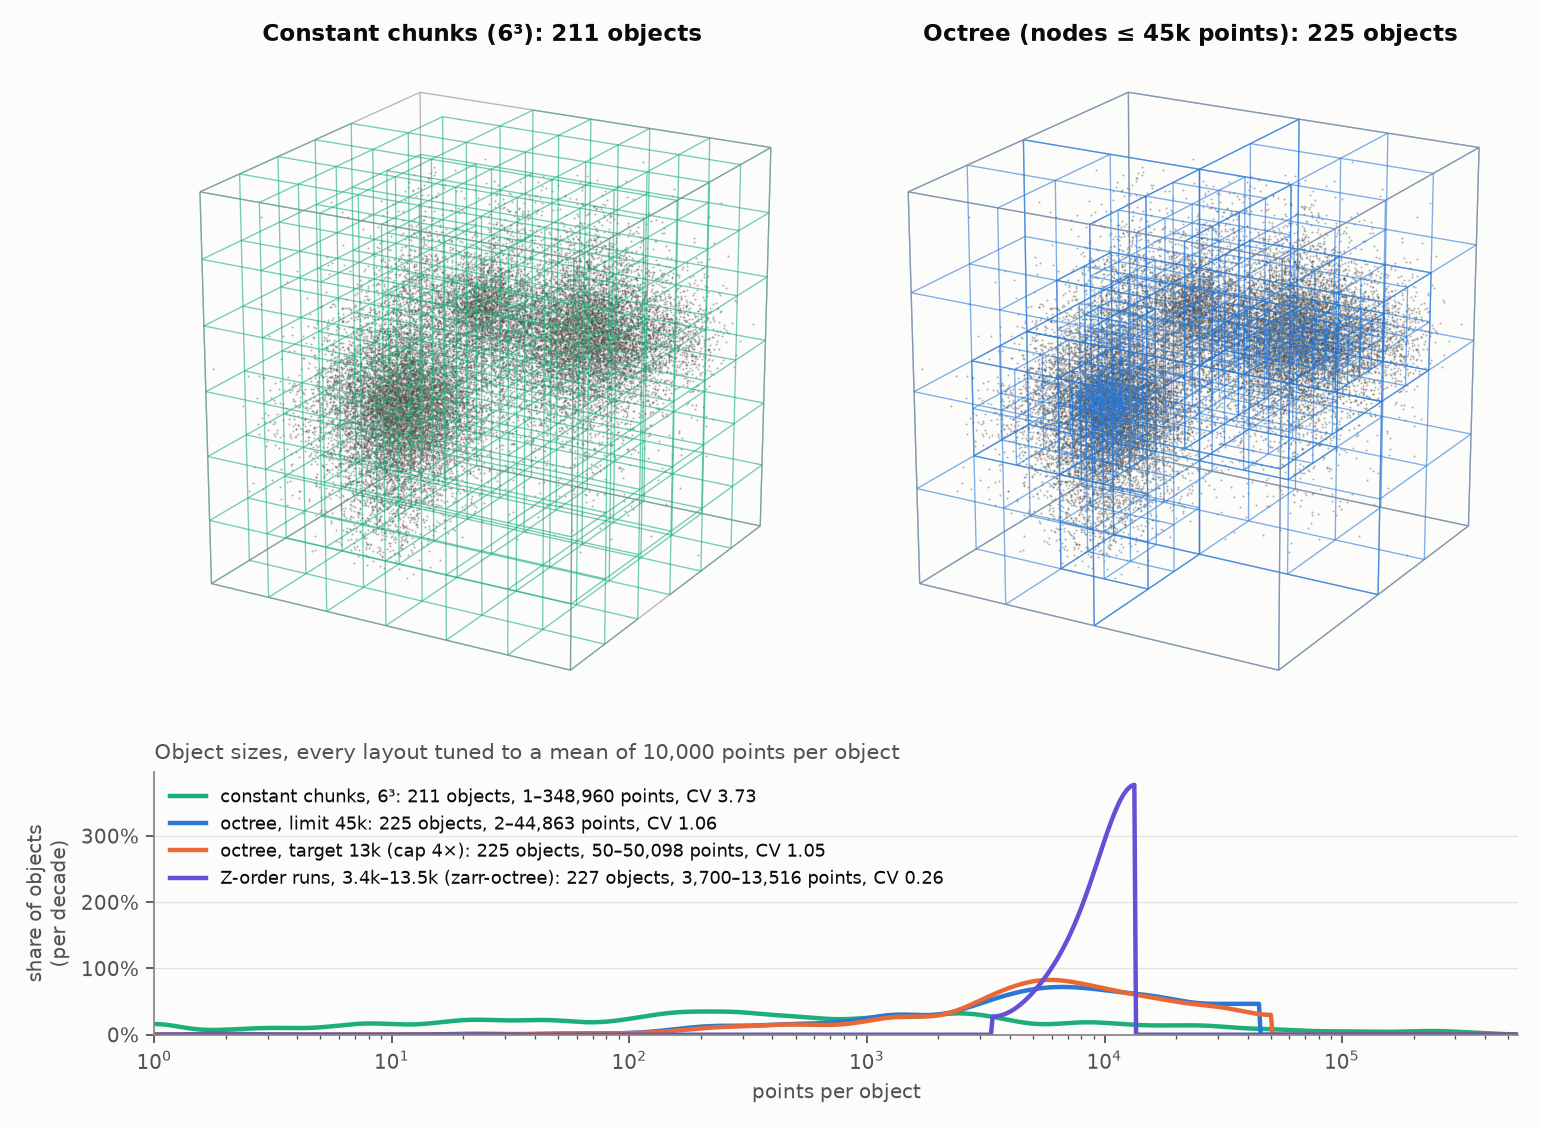
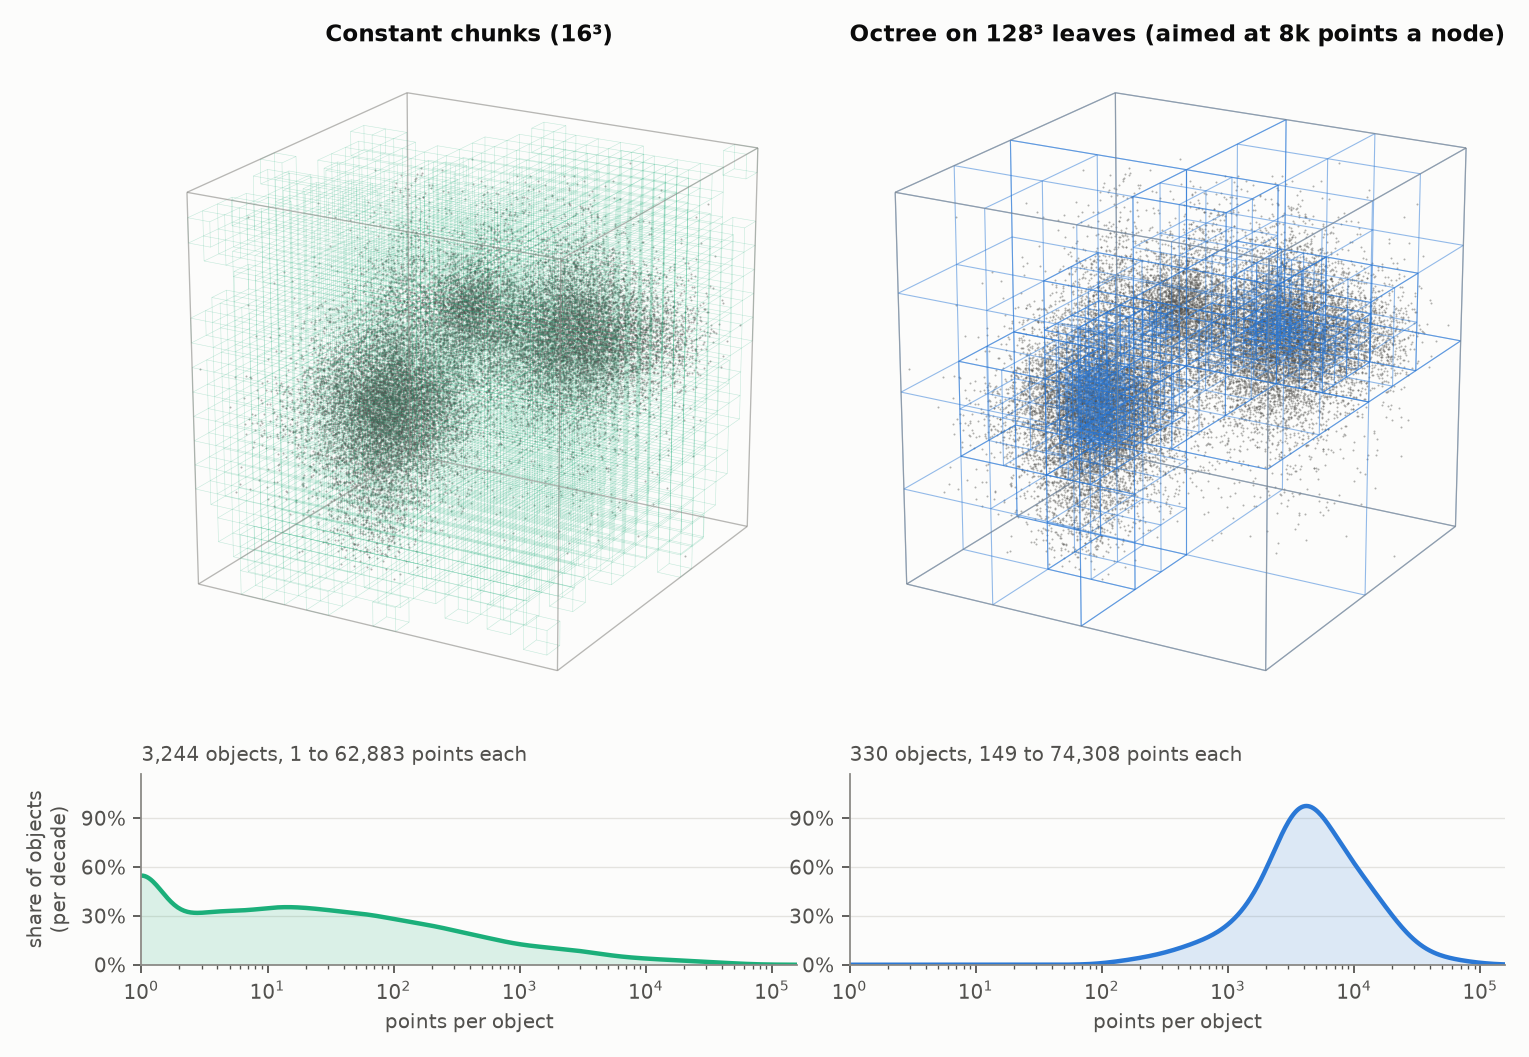
README figure: back to constant 16³ chunks against the octree, with the octree aimed at an 8k-point target instead of a hard limit, so object sizes taper off on both sides; caption and results bullet to match

diff --git a/bench/figures_concept.py b/bench/figures_concept.py
@@ -3,34 +3,25 @@
     python bench/figures_concept.py
 
 Three clusters with broad (Student-t) tails, so the density falls smoothly from dense cores to a
-sparse background.  Every layout is tuned to the same mean object size (``MEAN`` points), so they
-differ only in how evenly the points are spread over objects:
-
-* constant chunks: the number of chunks per axis;
-* octree, hard limit: a node is split while it holds more than the limit;
-* octree, target: a node is split when its children are closer to the target (in log size) than it
-  is, or when it holds more than 4 x the target;
-* Z-order runs (what zarr-octree stores): runs of the octree's Z-order between max / 4 and max.
+sparse background.  The octree has no hard limit: a node is split when its children are closer to a
+target size (in log points) than the node itself is, so object sizes taper off on both sides of the target.
 """
 
 from __future__ import annotations
 
 import argparse
 from pathlib import Path
-from typing import Callable
 
 import matplotlib.pyplot as plt
 import numpy as np
 from matplotlib.ticker import MaxNLocator, PercentFormatter
 from mpl_toolkits.mplot3d.art3d import Line3DCollection
 
-from figures import HERE, INK2, MUTED
-from zarr_octree.tree import build_runs, morton
+from figures import COLOR, HERE, INK2, MUTED
 
 N = 128  # leaf chunks per axis: the octree's finest level
-MEAN = 10_000  # the mean object size every layout is tuned to, in points
-CAP = 4  # the target scheme's hard cap, as a multiple of its target
-COLOR = {"constant": "#1baf7a", "limit": "#2a78d6", "target": "#eb6834", "runs": "#6250d6"}
+CONST = 16  # constant chunks per axis
+TARGET = 8_000  # the object size the octree aims for, in points
 
 
 def cluster_points(seed: int = 0) -> np.ndarray:
@@ -47,72 +38,41 @@ def cluster_points(seed: int = 0) -> np.ndarray:
     return p[((p >= 0) & (p < 1)).all(1)]
 
 
-def counts(p: np.ndarray, n: int) -> np.ndarray:
-    """Points per chunk on an ``n``³ grid, indexed ``[x, y, z]``."""
-    ijk = np.floor(p * n).astype(int)
-    c = np.zeros((n, n, n), dtype=np.int64)
+def counts(p: np.ndarray) -> np.ndarray:
+    """Points per chunk, indexed ``[x, y, z]``."""
+    ijk = np.floor(p * N).astype(int)
+    c = np.zeros((N, N, N), dtype=np.int64)
     np.add.at(c, tuple(ijk.T), 1)
     return c
 
 
-Node = tuple[tuple[int, int, int], int, int]  # (corner, size, points), in leaf units
+def octree_leaves(c: np.ndarray) -> list[tuple[tuple[int, int, int], int, int]]:
+    """The occupied leaves of an octree aimed at ``TARGET``: ``[(corner, size, points)]``.
 
+    A node above the target is split when its occupied children are, on average, closer to the target in
+    log size than the node is.
+    """
+    out = []
 
-def octree(c: np.ndarray, split_if: Callable[[int, np.ndarray], bool]) -> list[Node]:
-    """The occupied leaves of an octree over ``c``, splitting a node when ``split_if(points, children's points)``."""
-    out: list[Node] = []
-
-    def visit(x: int, y: int, z: int, size: int) -> None:
+    def split(x: int, y: int, z: int, size: int) -> None:
         w = int(c[x:x + size, y:y + size, z:z + size].sum())
         if w == 0:
             return
-        if size > 1:
+        if w > TARGET and size > 1:
             h = size // 2
             kids = [(x + dx, y + dy, z + dz) for dx in (0, h) for dy in (0, h) for dz in (0, h)]
             kw = np.array([c[a:a + h, b:b + h, d:d + h].sum() for a, b, d in kids])
-            if split_if(w, kw[kw > 0]):
+            if np.mean(np.abs(np.log(kw[kw > 0] / TARGET))) < abs(np.log(w / TARGET)):
                 for k in kids:
-                    visit(*k, h)
+                    split(*k, h)
                 return
         out.append(((x, y, z), size, w))
 
-    visit(0, 0, 0, len(c))
+    split(0, 0, 0, N)
     return out
 
 
-def octree_limit(c: np.ndarray, limit: float) -> list[Node]:
-    return octree(c, lambda w, kw: w > limit)
-
-
-def octree_target(c: np.ndarray, target: float) -> list[Node]:
-    def split_if(w: int, kw: np.ndarray) -> bool:
-        return w > CAP * target or (w > target and np.mean(np.abs(np.log(kw / target))) < abs(np.log(w / target)))
-    return octree(c, split_if)
-
-
-def z_runs(c: np.ndarray, max_w: float) -> np.ndarray:
-    """Points per run when the occupied leaves, in Z-order, are cut into runs of ``max_w / 4`` to ``max_w``."""
-    xyz = np.argwhere(c > 0)
-    codes = morton(xyz, int(np.log2(len(c))))
-    order = np.argsort(codes)
-    w = c[tuple(xyz[order].T)]
-    cum = np.concatenate([[0], np.cumsum(w)])
-    return np.array([cum[b] - cum[a] for _, a, b in build_runs(codes[order], w, 3, max_w / 4, max_w)])
-
-
-def tune(sizes: Callable[[float], np.ndarray], lo: float, hi: float) -> tuple[float, np.ndarray]:
-    """The parameter in ``[lo, hi]`` whose objects' mean size is closest to ``MEAN`` (mean grows with it)."""
-    best = None
-    for _ in range(40):
-        mid = np.sqrt(lo * hi)
-        w = sizes(mid)
-        if best is None or abs(np.log(w.mean() / MEAN)) < abs(np.log(best[1].mean() / MEAN)):
-            best = (mid, w)
-        lo, hi = (mid, hi) if w.mean() < MEAN else (lo, mid)
-    return best
-
-
-def cube_edges(cubes: list[tuple[tuple[float, float, float], float]]) -> list:
+def cube_edges(cubes: list[tuple[tuple[int, int, int], int]]) -> list:
     """The edges of axis-aligned cubes ``(corner, size)``, each drawn once."""
     seen = set()
     for (x, y, z), s in cubes:
@@ -122,17 +82,13 @@ def cube_edges(cubes: list[tuple[tuple[float, float, float], float]]) -> list:
     return [list(e) for e in seen]
 
 
-def per_decade(weights: np.ndarray, grid: np.ndarray, lower: float = 1, upper: float | None = None,
-               bw: float = 0.12) -> np.ndarray:
-    """Object sizes as a smooth curve: a Gaussian kernel density over log10(points), as a share of the objects
-    per decade.  The kernels are reflected at the bounds, so no density spills past them; the curve is zero
-    outside them."""
+def per_decade(weights: np.ndarray, grid: np.ndarray, bw: float = 0.18) -> np.ndarray:
+    """Object sizes as a smooth curve: a Gaussian kernel density over log10(points), as a share of the objects per decade.
+
+    The kernels are reflected at 1 point, so no density spills below it.
+    """
     x = np.log10(weights)[:, None]
-    lo, hi = np.log10(lower), np.log10(upper) if upper else None
-    mirrors = [x, 2 * lo - x] + ([2 * hi - x] if hi is not None else [])
-    y = sum(np.exp(-0.5 * ((grid[None] - m) / bw) ** 2).sum(0) for m in mirrors) / (bw * np.sqrt(2 * np.pi) * len(weights))
-    inside = (grid >= lo) & ((grid <= hi) if hi is not None else True)
-    return np.where(inside, y, 0.0)
+    return sum(np.exp(-0.5 * ((grid[None] - m) / bw) ** 2).sum(0) for m in (x, -x)) / (bw * np.sqrt(2 * np.pi) * len(weights))
 
 
 def style(ax) -> None:
@@ -146,59 +102,47 @@ def style(ax) -> None:
 
 def fig_concept(out: Path) -> None:
     p = cluster_points()
-    c = counts(p, N)
-    k = min(range(2, 33), key=lambda k: abs(np.log(len(p) / (counts(p, k) > 0).sum() / MEAN)))
-    ck = counts(p, k)
-    limit, _ = tune(lambda x: np.array([w for *_, w in octree_limit(c, x)]), 1e3, 1e6)
-    target, _ = tune(lambda x: np.array([w for *_, w in octree_target(c, x)]), 1e3, 1e6)
-    max_w, runs = tune(lambda x: z_runs(c, x), 1e3, 1e6)
-    nodes = octree_limit(c, limit)
-    sizes = {
-        "constant": (f"constant chunks, {k}³", ck[ck > 0], 1, None),
-        "limit": (f"octree, limit {limit / 1e3:.0f}k", np.array([w for *_, w in nodes]), 1, limit),
-        "target": (f"octree, target {target / 1e3:.0f}k (cap {CAP}×)",
-                   np.array([w for *_, w in octree_target(c, target)]), 1, CAP * target),
-        "runs": (f"Z-order runs, {max_w / 4e3:.1f}k–{max_w / 1e3:.1f}k (zarr-octree)", runs, max_w / 4, max_w),
-    }
-
+    c = counts(p)
+    leaves = octree_leaves(c)
     ijk = np.floor(p * N).astype(int)
-    keep = 1 / np.sqrt(c[tuple(ijk.T)])  # thin dense chunks more than sparse ones, so both stay visible
+    dens = c[tuple(ijk.T)]
+    keep = 1 / np.sqrt(dens)  # thin dense chunks more than sparse ones, so both stay visible
     show = p[np.random.default_rng(1).random(len(p)) < keep * 25_000 / keep.sum()] * N
-    s = N / k
+    b = N // CONST
+    cc = c.reshape(CONST, b, CONST, b, CONST, b).sum((1, 3, 5))
+    occupied = [(tuple(int(v) * b for v in xyz), b) for xyz in np.argwhere(cc > 0)]
     panels = [
-        ("constant", f"Constant chunks ({k}³)", cube_edges([(tuple(v * s for v in xyz), s) for xyz in np.argwhere(ck > 0)])),
-        ("limit", f"Octree (nodes ≤ {limit / 1e3:.0f}k points)", cube_edges([(xyz, sz) for xyz, sz, _ in nodes])),
+        ("leaf", f"Constant chunks ({CONST}³)", cube_edges(occupied), cc[cc > 0], 0.25, 0.25),
+        ("octree", f"Octree on {N}³ leaves (aimed at {TARGET // 1000}k points a node)",
+         cube_edges([(xyz, s) for xyz, s, _ in leaves]), np.array([w for *_, w in leaves]), 0.5, 0.5),
     ]
-    fig = plt.figure(figsize=(11, 8.2))
-    gs = fig.add_gridspec(2, 2, height_ratios=[4, 1.5], hspace=0.1, wspace=0.08)
-    for col, (key, title, segs) in enumerate(panels):
+    fig = plt.figure(figsize=(11, 7.6))
+    gs = fig.add_gridspec(2, 2, height_ratios=[4, 1.1], hspace=0.12, wspace=0.08)
+    grid = np.linspace(0, np.log10(cc.max()) + 0.4, 400)
+    curves = {key: per_decade(w, grid) for key, _, _, w, _, _ in panels}
+    top = max(y.max() for y in curves.values()) * 1.2
+    for col, (key, title, segs, weights, lw, alpha) in enumerate(panels):
         ax = fig.add_subplot(gs[0, col], projection="3d")
         ax.scatter(*show.T, s=0.8, color=INK2, alpha=0.45, linewidths=0, rasterized=True, depthshade=False)
-        ax.add_collection3d(Line3DCollection(segs, colors=COLOR[key], linewidths=0.6, alpha=0.6))
+        ax.add_collection3d(Line3DCollection(segs, colors=COLOR[key], linewidths=lw, alpha=alpha))
         ax.add_collection3d(Line3DCollection(cube_edges([((0, 0, 0), N)]), colors=MUTED, linewidths=0.6, alpha=0.6))
         style(ax)
-        ax.set_title(f"{title}: {len(sizes[key][1])} objects", fontsize=10.5, pad=0)
-
-    h = fig.add_subplot(gs[1, :])
-    grid = np.linspace(0, np.log10(max(w.max() for _, w, _, _ in sizes.values())) + 0.2, 800)
-    for key, (label, w, lower, upper) in sizes.items():
-        h.plot(10 ** grid, per_decade(w, grid, lower, upper), color=COLOR[key],
-               label=f"{label}: {len(w)} objects, {w.min():,}–{w.max():,} points, CV {w.std() / w.mean():.2f}")
-    h.set_xscale("log")
-    h.set_xlim(1, 10 ** grid[-1])
-    h.set_ylim(0, None)
-    h.yaxis.set_major_locator(MaxNLocator(4))
-    h.yaxis.set_major_formatter(PercentFormatter(1, decimals=0))
-    h.grid(axis="x", visible=False)
-    h.set_xlabel("points per object")
-    h.set_ylabel("share of objects\n(per decade)")
-    h.set_title(f"Object sizes, every layout tuned to a mean of {MEAN:,} points per object",
-                fontsize=9.5, color=INK2, fontweight="normal")
-    h.legend(loc="upper left", fontsize=8)
+        ax.set_title(title, fontsize=10.5, pad=0)
+        h = fig.add_subplot(gs[1, col])
+        h.fill_between(10 ** grid, curves[key], color=COLOR[key], alpha=0.15, linewidth=0)
+        h.plot(10 ** grid, curves[key], color=COLOR[key])
+        h.set_xscale("log")
+        h.set_xlim(10 ** grid[0], 10 ** grid[-1])
+        h.set_ylim(0, top)
+        h.yaxis.set_major_locator(MaxNLocator(4))
+        h.yaxis.set_major_formatter(PercentFormatter(1, decimals=0))
+        h.grid(axis="x", visible=False)
+        h.set_xlabel("points per object")
+        h.set_ylabel("share of objects\n(per decade)" if col == 0 else "")
+        h.set_title(f"{len(weights):,} objects, {weights.min():,} to {weights.max():,} points each",
+                    fontsize=9, color=INK2, fontweight="normal")
     fig.savefig(out, dpi=160, bbox_inches="tight", pad_inches=0.15)
     plt.close(fig)
-    for key, (label, w, _, _) in sizes.items():
-        print(f"{label:45s} {len(w):4d} objects  mean {w.mean():7,.0f}  median {np.median(w):7,.0f}  CV {w.std() / w.mean():.2f}")
 
 
 def main() -> None:

diff --git a/README.md b/README.md
@@ -13,17 +13,15 @@ zarr-vectors (option 1 of AllenInstitute/zarr-vectors-py#45).
 
 ![Constant chunks against an octree on a synthetic point cloud, and the size of their objects](bench/results/figures/concept.png)
 
-With constant chunks, every chunk is an object however many points it holds.
-An octree splits a node into eight only while it holds too many points, so a
-node covers a large volume where the data are sparse and a small one where
-they are dense, and empty space costs nothing.  zarr-octree goes one step
-further and cuts the octree's Z-order into **runs** between a minimum and a
-maximum size, which also merges the small nodes an octree leaves beside dense
-ones.  Every layout in the figure is tuned to the same mean object size
-(10,000 points), so they differ only in how evenly they spread the points:
-constant chunks over five orders of magnitude (CV 3.7), an octree with a
-limit or a target size less (CV 1.1), runs least (CV 0.26).  (Synthetic
-points: three clusters with broad tails, 2.27 M points;
+With constant chunks, every chunk is an object however many points it holds:
+here 3,244 objects of 1 to 63k points.  An octree splits a node into eight
+only where its children come closer to a target size (8k points) than the
+node itself, so a node covers a large volume where the data are sparse and a
+small one where they are dense, and empty space costs nothing: 330 objects,
+93 % of them within a decade of the target.  zarr-octree goes one step further
+and cuts the octree's Z-order into **runs** between a minimum and a maximum
+size, which also merges the small nodes an octree leaves beside dense ones.
+(Synthetic points: three clusters with broad tails, 2.27 M points;
 `bench/figures_concept.py`.)
 
 ## Results
@@ -38,8 +36,9 @@ API: geometric mean over 10 query types (boxes and objects), 16³-cell shards,
   (708 against 687 ms at 20 ms latency), **reads 26 % fewer bytes** per query
   and makes a **12 % smaller store** — its sparse index is 6 bytes per stored
   chunk against 16 bytes per possible chunk.
-* **Objects are even** (figure above): at the same mean size, runs spread 14×
-  less than constant chunks.
+* **Objects are even** (figure above): the octree's object sizes vary 4×
+  less than constant chunks' (CV 1.2 against 4.8), and the codec's runs are
+  bounded at both ends.
 * **A custom reader (▼) is where speed comes from**: reading each shard index
   once and merging neighbouring byte ranges halves query time at 20 ms
   latency, on either format.  It is a reader change, not a format change
